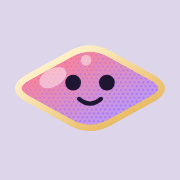
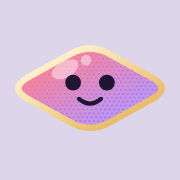
The gloss back in place with only its cut curve flattened, and every university of a country listed (#393)

Changed region(s): [[0.1944, 0.3056, 0.4444, 0.5]]

diff --git a/app/kit/figure-icon.ts b/app/kit/figure-icon.ts
@@ -1,2 +1,2 @@
 // Written by `pnpm make:icon`: the app icon's drawing in the day look, for the first opening (src/launch-intro.ts).
-export const FIGURE_ICON_SVG = "<svg aria-hidden=\"true\" focusable=\"false\" viewBox=\"0 0 64 40\" data-character=\"diamond\" style=\"overflow:visible\"><g data-part=\"figure\" style=\"transform-box:fill-box;transform-origin:50% 100%\"><g><defs><linearGradient id=\"icon-body\" x1=\"0.15\" y1=\"0.15\" x2=\"0.85\" y2=\"0.85\"><stop offset=\"0\" style=\"stop-color:#FF7F8E\"></stop><stop offset=\"1\" style=\"stop-color:#B79BFF\"></stop></linearGradient><linearGradient id=\"icon-edge\" x1=\"0.15\" y1=\"0.15\" x2=\"0.85\" y2=\"0.85\"><stop offset=\"0\" style=\"stop-color:#FFF4D0\"></stop><stop offset=\"1\" style=\"stop-color:#E8B860\"></stop></linearGradient></defs><g data-part=\"body\"><path d=\"M25 7.86 Q32 4 39 7.86 L54 16.14 Q61 20 54 23.86 L39 32.14 Q32 36 25 32.14 L10 23.86 Q3 20 10 16.14 Z\" style=\"fill:url(#icon-body);stroke:url(#icon-edge);stroke-width:2.2;stroke-linejoin:round\"></path><g data-part=\"halftone\"><path d=\"\" style=\"fill:none;stroke:#835EFF;stroke-opacity:0.45;stroke-width:0.22;stroke-linecap:round\"></path><path d=\"\" style=\"fill:none;stroke:#835EFF;stroke-opacity:0.45;stroke-width:0.34;stroke-linecap:round\"></path><path d=\"M27 6.77h0M28.6 6.77h0M30.2 6.77h0M31.8 6.77h0M33.4 6.77h0M35 6.77h0M36.6 6.77h0M24.6 8.16h0M26.2 8.16h0M27.8 8.16h0M29.4 8.16h0M31 8.16h0M32.6 8.16h0M34.2 8.16h0M35.8 8.16h0M37.4 8.16h0M22.2 9.54h0M23.8 9.54h0M25.4 9.54h0M27 9.54h0M28.6 9.54h0M30.2 9.54h0M31.8 9.54h0M33.4 9.54h0M35 9.54h0M19.8 10.93h0M21.4 10.93h0M23 10.93h0M24.6 10.93h0M26.2 10.93h0M27.8 10.93h0M29.4 10.93h0M31 10.93h0M32.6 10.93h0M17.4 12.31h0M19 12.31h0M20.6 12.31h0M22.2 12.31h0M23.8 12.31h0M25.4 12.31h0M27 12.31h0M28.6 12.31h0M30.2 12.31h0M15 13.7h0M16.6 13.7h0M18.2 13.7h0M19.8 13.7h0M21.4 13.7h0M23 13.7h0M24.6 13.7h0M26.2 13.7h0M27.8 13.7h0M12.6 15.08h0M14.2 15.08h0M15.8 15.08h0M17.4 15.08h0M19 15.08h0M20.6 15.08h0M22.2 15.08h0M23.8 15.08h0M25.4 15.08h0M10.2 16.47h0M11.8 16.47h0M13.4 16.47h0M15 16.47h0M16.6 16.47h0M18.2 16.47h0M19.8 16.47h0M21.4 16.47h0M23 16.47h0M7.8 17.86h0M9.4 17.86h0M11 17.86h0M12.6 17.86h0M14.2 17.86h0M15.8 17.86h0M17.4 17.86h0M19 17.86h0M20.6 17.86h0M7 19.24h0M8.6 19.24h0M10.2 19.24h0M11.8 19.24h0M13.4 19.24h0M15 19.24h0M16.6 19.24h0M18.2 19.24h0M7.8 20.63h0M9.4 20.63h0M11 20.63h0M12.6 20.63h0M14.2 20.63h0M15.8 20.63h0M7 22.01h0M8.6 22.01h0M10.2 22.01h0M11.8 22.01h0M13.4 22.01h0M9.4 23.4h0M11 23.4h0\" style=\"fill:none;stroke:#835EFF;stroke-opacity:0.45;stroke-width:0.46;stroke-linecap:round\"></path><path d=\"M39 8.16h0M36.6 9.54h0M38.2 9.54h0M39.8 9.54h0M41.4 9.54h0M34.2 10.93h0M35.8 10.93h0M37.4 10.93h0M39 10.93h0M40.6 10.93h0M42.2 10.93h0M43.8 10.93h0M31.8 12.31h0M33.4 12.31h0M35 12.31h0M36.6 12.31h0M38.2 12.31h0M39.8 12.31h0M41.4 12.31h0M43 12.31h0M44.6 12.31h0M29.4 13.7h0M31 13.7h0M32.6 13.7h0M34.2 13.7h0M35.8 13.7h0M37.4 13.7h0M39 13.7h0M40.6 13.7h0M42.2 13.7h0M27 15.08h0M28.6 15.08h0M30.2 15.08h0M31.8 15.08h0M33.4 15.08h0M35 15.08h0M36.6 15.08h0M38.2 15.08h0M39.8 15.08h0M24.6 16.47h0M26.2 16.47h0M27.8 16.47h0M29.4 16.47h0M31 16.47h0M32.6 16.47h0M34.2 16.47h0M35.8 16.47h0M37.4 16.47h0M22.2 17.86h0M23.8 17.86h0M25.4 17.86h0M27 17.86h0M28.6 17.86h0M30.2 17.86h0M31.8 17.86h0M33.4 17.86h0M35 17.86h0M19.8 19.24h0M21.4 19.24h0M23 19.24h0M24.6 19.24h0M26.2 19.24h0M27.8 19.24h0M29.4 19.24h0M31 19.24h0M32.6 19.24h0M17.4 20.63h0M19 20.63h0M20.6 20.63h0M22.2 20.63h0M23.8 20.63h0M25.4 20.63h0M27 20.63h0M28.6 20.63h0M30.2 20.63h0M15 22.01h0M16.6 22.01h0M18.2 22.01h0M19.8 22.01h0M21.4 22.01h0M23 22.01h0M24.6 22.01h0M26.2 22.01h0M27.8 22.01h0M12.6 23.4h0M14.2 23.4h0M15.8 23.4h0M17.4 23.4h0M19 23.4h0M20.6 23.4h0M22.2 23.4h0M23.8 23.4h0M25.4 23.4h0M11.8 24.78h0M13.4 24.78h0M15 24.78h0M16.6 24.78h0M18.2 24.78h0M19.8 24.78h0M21.4 24.78h0M23 24.78h0M14.2 26.17h0M15.8 26.17h0M17.4 26.17h0M19 26.17h0M20.6 26.17h0M18.2 27.56h0\" style=\"fill:none;stroke:#835EFF;stroke-opacity:0.45;stroke-width:0.58;stroke-linecap:round\"></path><path d=\"M46.2 12.31h0M43.8 13.7h0M45.4 13.7h0M47 13.7h0M48.6 13.7h0M41.4 15.08h0M43 15.08h0M44.6 15.08h0M46.2 15.08h0M47.8 15.08h0M49.4 15.08h0M51 15.08h0M39 16.47h0M40.6 16.47h0M42.2 16.47h0M43.8 16.47h0M45.4 16.47h0M47 16.47h0M48.6 16.47h0M50.2 16.47h0M51.8 16.47h0M36.6 17.86h0M38.2 17.86h0M39.8 17.86h0M41.4 17.86h0M43 17.86h0M44.6 17.86h0M46.2 17.86h0M47.8 17.86h0M49.4 17.86h0M34.2 19.24h0M35.8 19.24h0M37.4 19.24h0M39 19.24h0M40.6 19.24h0M42.2 19.24h0M43.8 19.24h0M45.4 19.24h0M47 19.24h0M31.8 20.63h0M33.4 20.63h0M35 20.63h0M36.6 20.63h0M38.2 20.63h0M39.8 20.63h0M41.4 20.63h0M43 20.63h0M44.6 20.63h0M29.4 22.01h0M31 22.01h0M32.6 22.01h0M34.2 22.01h0M35.8 22.01h0M37.4 22.01h0M39 22.01h0M40.6 22.01h0M42.2 22.01h0M27 23.4h0M28.6 23.4h0M30.2 23.4h0M31.8 23.4h0M33.4 23.4h0M35 23.4h0M36.6 23.4h0M38.2 23.4h0M39.8 23.4h0M24.6 24.78h0M26.2 24.78h0M27.8 24.78h0M29.4 24.78h0M31 24.78h0M32.6 24.78h0M34.2 24.78h0M35.8 24.78h0M37.4 24.78h0M22.2 26.17h0M23.8 26.17h0M25.4 26.17h0M27 26.17h0M28.6 26.17h0M30.2 26.17h0M31.8 26.17h0M33.4 26.17h0M35 26.17h0M19.8 27.56h0M21.4 27.56h0M23 27.56h0M24.6 27.56h0M26.2 27.56h0M27.8 27.56h0M29.4 27.56h0M31 27.56h0M32.6 27.56h0M20.6 28.94h0M22.2 28.94h0M23.8 28.94h0M25.4 28.94h0M27 28.94h0M28.6 28.94h0M30.2 28.94h0M23 30.33h0M24.6 30.33h0M26.2 30.33h0\" style=\"fill:none;stroke:#835EFF;stroke-opacity:0.45;stroke-width:0.7;stroke-linecap:round\"></path><path d=\"M53.4 16.47h0M51 17.86h0M52.6 17.86h0M54.2 17.86h0M55.8 17.86h0M48.6 19.24h0M50.2 19.24h0M51.8 19.24h0M53.4 19.24h0M55 19.24h0M56.6 19.24h0M46.2 20.63h0M47.8 20.63h0M49.4 20.63h0M51 20.63h0M52.6 20.63h0M54.2 20.63h0M55.8 20.63h0M57.4 20.63h0M43.8 22.01h0M45.4 22.01h0M47 22.01h0M48.6 22.01h0M50.2 22.01h0M51.8 22.01h0M53.4 22.01h0M55 22.01h0M56.6 22.01h0M41.4 23.4h0M43 23.4h0M44.6 23.4h0M46.2 23.4h0M47.8 23.4h0M49.4 23.4h0M51 23.4h0M52.6 23.4h0M54.2 23.4h0M39 24.78h0M40.6 24.78h0M42.2 24.78h0M43.8 24.78h0M45.4 24.78h0M47 24.78h0M48.6 24.78h0M50.2 24.78h0M51.8 24.78h0M36.6 26.17h0M38.2 26.17h0M39.8 26.17h0M41.4 26.17h0M43 26.17h0M44.6 26.17h0M46.2 26.17h0M47.8 26.17h0M49.4 26.17h0M34.2 27.56h0M35.8 27.56h0M37.4 27.56h0M39 27.56h0M40.6 27.56h0M42.2 27.56h0M43.8 27.56h0M45.4 27.56h0M47 27.56h0M31.8 28.94h0M33.4 28.94h0M35 28.94h0M36.6 28.94h0M38.2 28.94h0M39.8 28.94h0M41.4 28.94h0M43 28.94h0M44.6 28.94h0M27.8 30.33h0M29.4 30.33h0M31 30.33h0M32.6 30.33h0M34.2 30.33h0M35.8 30.33h0M37.4 30.33h0M39 30.33h0M40.6 30.33h0M42.2 30.33h0M25.4 31.71h0M27 31.71h0M28.6 31.71h0M30.2 31.71h0M31.8 31.71h0M33.4 31.71h0M35 31.71h0M36.6 31.71h0M38.2 31.71h0M27.8 33.1h0M29.4 33.1h0M31 33.1h0M32.6 33.1h0M34.2 33.1h0M35.8 33.1h0\" style=\"fill:none;stroke:#835EFF;stroke-opacity:0.45;stroke-width:0.82;stroke-linecap:round\"></path><path d=\"\" style=\"fill:none;stroke:#835EFF;stroke-opacity:0.45;stroke-width:0.94;stroke-linecap:round\"></path><path d=\"\" style=\"fill:none;stroke:#835EFF;stroke-opacity:0.45;stroke-width:1.06;stroke-linecap:round\"></path></g><g data-part=\"gloss\"><ellipse cx=\"18.79\" cy=\"16.2\" rx=\"5.2\" ry=\"3.2\" transform=\"rotate(-28.89 18.79 16.2)\" style=\"fill:rgba(255, 255, 255, 0.45)\"></ellipse><circle cx=\"30.59\" cy=\"10.03\" r=\"1.9\" style=\"fill:rgba(255, 255, 255, 0.45)\"></circle></g><path data-part=\"edge\" d=\"M25 7.86 Q32 4 39 7.86 L54 16.14 Q61 20 54 23.86 L39 32.14 Q32 36 25 32.14 L10 23.86 Q3 20 10 16.14 Z\" style=\"fill:none;stroke:url(#icon-edge);stroke-width:2.2;stroke-linejoin:round\"></path></g><g data-part=\"face\"><g data-part=\"eyes\" style=\"transform:translate(0px, 0px)\"><g data-part=\"gaze\"><g data-part=\"lid\" style=\"transform-box:fill-box;transform-origin:50% 50%\"><circle data-part=\"eye\" cx=\"26\" cy=\"18\" r=\"2.8\" style=\"fill:#1E1633;transform-box:fill-box;transform-origin:50% 50%\"></circle></g><g data-part=\"lid\" style=\"transform-box:fill-box;transform-origin:50% 50%\"><circle data-part=\"eye\" cx=\"38\" cy=\"18\" r=\"2.8\" style=\"fill:#1E1633;transform-box:fill-box;transform-origin:50% 50%\"></circle></g></g></g><g data-part=\"mouth\" style=\"transform-box:fill-box;transform-origin:50% 50%\"><path d=\"M28.1 23.8 Q32 27.1 35.9 23.8\" style=\"fill:none;stroke:#1E1633;stroke-width:1.5;stroke-linecap:round\"></path></g></g></g></g></svg>";
+export const FIGURE_ICON_SVG = "<svg aria-hidden=\"true\" focusable=\"false\" viewBox=\"0 0 64 40\" data-character=\"diamond\" style=\"overflow:visible\"><g data-part=\"figure\" style=\"transform-box:fill-box;transform-origin:50% 100%\"><g><defs><linearGradient id=\"icon-body\" x1=\"0.15\" y1=\"0.15\" x2=\"0.85\" y2=\"0.85\"><stop offset=\"0\" style=\"stop-color:#FF7F8E\"></stop><stop offset=\"1\" style=\"stop-color:#B79BFF\"></stop></linearGradient><linearGradient id=\"icon-edge\" x1=\"0.15\" y1=\"0.15\" x2=\"0.85\" y2=\"0.85\"><stop offset=\"0\" style=\"stop-color:#FFF4D0\"></stop><stop offset=\"1\" style=\"stop-color:#E8B860\"></stop></linearGradient></defs><g data-part=\"body\"><path d=\"M25 7.86 Q32 4 39 7.86 L54 16.14 Q61 20 54 23.86 L39 32.14 Q32 36 25 32.14 L10 23.86 Q3 20 10 16.14 Z\" style=\"fill:url(#icon-body);stroke:url(#icon-edge);stroke-width:2.2;stroke-linejoin:round\"></path><g data-part=\"halftone\"><path d=\"\" style=\"fill:none;stroke:#835EFF;stroke-opacity:0.45;stroke-width:0.22;stroke-linecap:round\"></path><path d=\"\" style=\"fill:none;stroke:#835EFF;stroke-opacity:0.45;stroke-width:0.34;stroke-linecap:round\"></path><path d=\"M27 6.77h0M28.6 6.77h0M30.2 6.77h0M31.8 6.77h0M33.4 6.77h0M35 6.77h0M36.6 6.77h0M24.6 8.16h0M26.2 8.16h0M27.8 8.16h0M29.4 8.16h0M31 8.16h0M32.6 8.16h0M34.2 8.16h0M35.8 8.16h0M37.4 8.16h0M22.2 9.54h0M23.8 9.54h0M25.4 9.54h0M27 9.54h0M28.6 9.54h0M30.2 9.54h0M31.8 9.54h0M33.4 9.54h0M35 9.54h0M19.8 10.93h0M21.4 10.93h0M23 10.93h0M24.6 10.93h0M26.2 10.93h0M27.8 10.93h0M29.4 10.93h0M31 10.93h0M32.6 10.93h0M17.4 12.31h0M19 12.31h0M20.6 12.31h0M22.2 12.31h0M23.8 12.31h0M25.4 12.31h0M27 12.31h0M28.6 12.31h0M30.2 12.31h0M15 13.7h0M16.6 13.7h0M18.2 13.7h0M19.8 13.7h0M21.4 13.7h0M23 13.7h0M24.6 13.7h0M26.2 13.7h0M27.8 13.7h0M12.6 15.08h0M14.2 15.08h0M15.8 15.08h0M17.4 15.08h0M19 15.08h0M20.6 15.08h0M22.2 15.08h0M23.8 15.08h0M25.4 15.08h0M10.2 16.47h0M11.8 16.47h0M13.4 16.47h0M15 16.47h0M16.6 16.47h0M18.2 16.47h0M19.8 16.47h0M21.4 16.47h0M23 16.47h0M7.8 17.86h0M9.4 17.86h0M11 17.86h0M12.6 17.86h0M14.2 17.86h0M15.8 17.86h0M17.4 17.86h0M19 17.86h0M20.6 17.86h0M7 19.24h0M8.6 19.24h0M10.2 19.24h0M11.8 19.24h0M13.4 19.24h0M15 19.24h0M16.6 19.24h0M18.2 19.24h0M7.8 20.63h0M9.4 20.63h0M11 20.63h0M12.6 20.63h0M14.2 20.63h0M15.8 20.63h0M7 22.01h0M8.6 22.01h0M10.2 22.01h0M11.8 22.01h0M13.4 22.01h0M9.4 23.4h0M11 23.4h0\" style=\"fill:none;stroke:#835EFF;stroke-opacity:0.45;stroke-width:0.46;stroke-linecap:round\"></path><path d=\"M39 8.16h0M36.6 9.54h0M38.2 9.54h0M39.8 9.54h0M41.4 9.54h0M34.2 10.93h0M35.8 10.93h0M37.4 10.93h0M39 10.93h0M40.6 10.93h0M42.2 10.93h0M43.8 10.93h0M31.8 12.31h0M33.4 12.31h0M35 12.31h0M36.6 12.31h0M38.2 12.31h0M39.8 12.31h0M41.4 12.31h0M43 12.31h0M44.6 12.31h0M29.4 13.7h0M31 13.7h0M32.6 13.7h0M34.2 13.7h0M35.8 13.7h0M37.4 13.7h0M39 13.7h0M40.6 13.7h0M42.2 13.7h0M27 15.08h0M28.6 15.08h0M30.2 15.08h0M31.8 15.08h0M33.4 15.08h0M35 15.08h0M36.6 15.08h0M38.2 15.08h0M39.8 15.08h0M24.6 16.47h0M26.2 16.47h0M27.8 16.47h0M29.4 16.47h0M31 16.47h0M32.6 16.47h0M34.2 16.47h0M35.8 16.47h0M37.4 16.47h0M22.2 17.86h0M23.8 17.86h0M25.4 17.86h0M27 17.86h0M28.6 17.86h0M30.2 17.86h0M31.8 17.86h0M33.4 17.86h0M35 17.86h0M19.8 19.24h0M21.4 19.24h0M23 19.24h0M24.6 19.24h0M26.2 19.24h0M27.8 19.24h0M29.4 19.24h0M31 19.24h0M32.6 19.24h0M17.4 20.63h0M19 20.63h0M20.6 20.63h0M22.2 20.63h0M23.8 20.63h0M25.4 20.63h0M27 20.63h0M28.6 20.63h0M30.2 20.63h0M15 22.01h0M16.6 22.01h0M18.2 22.01h0M19.8 22.01h0M21.4 22.01h0M23 22.01h0M24.6 22.01h0M26.2 22.01h0M27.8 22.01h0M12.6 23.4h0M14.2 23.4h0M15.8 23.4h0M17.4 23.4h0M19 23.4h0M20.6 23.4h0M22.2 23.4h0M23.8 23.4h0M25.4 23.4h0M11.8 24.78h0M13.4 24.78h0M15 24.78h0M16.6 24.78h0M18.2 24.78h0M19.8 24.78h0M21.4 24.78h0M23 24.78h0M14.2 26.17h0M15.8 26.17h0M17.4 26.17h0M19 26.17h0M20.6 26.17h0M18.2 27.56h0\" style=\"fill:none;stroke:#835EFF;stroke-opacity:0.45;stroke-width:0.58;stroke-linecap:round\"></path><path d=\"M46.2 12.31h0M43.8 13.7h0M45.4 13.7h0M47 13.7h0M48.6 13.7h0M41.4 15.08h0M43 15.08h0M44.6 15.08h0M46.2 15.08h0M47.8 15.08h0M49.4 15.08h0M51 15.08h0M39 16.47h0M40.6 16.47h0M42.2 16.47h0M43.8 16.47h0M45.4 16.47h0M47 16.47h0M48.6 16.47h0M50.2 16.47h0M51.8 16.47h0M36.6 17.86h0M38.2 17.86h0M39.8 17.86h0M41.4 17.86h0M43 17.86h0M44.6 17.86h0M46.2 17.86h0M47.8 17.86h0M49.4 17.86h0M34.2 19.24h0M35.8 19.24h0M37.4 19.24h0M39 19.24h0M40.6 19.24h0M42.2 19.24h0M43.8 19.24h0M45.4 19.24h0M47 19.24h0M31.8 20.63h0M33.4 20.63h0M35 20.63h0M36.6 20.63h0M38.2 20.63h0M39.8 20.63h0M41.4 20.63h0M43 20.63h0M44.6 20.63h0M29.4 22.01h0M31 22.01h0M32.6 22.01h0M34.2 22.01h0M35.8 22.01h0M37.4 22.01h0M39 22.01h0M40.6 22.01h0M42.2 22.01h0M27 23.4h0M28.6 23.4h0M30.2 23.4h0M31.8 23.4h0M33.4 23.4h0M35 23.4h0M36.6 23.4h0M38.2 23.4h0M39.8 23.4h0M24.6 24.78h0M26.2 24.78h0M27.8 24.78h0M29.4 24.78h0M31 24.78h0M32.6 24.78h0M34.2 24.78h0M35.8 24.78h0M37.4 24.78h0M22.2 26.17h0M23.8 26.17h0M25.4 26.17h0M27 26.17h0M28.6 26.17h0M30.2 26.17h0M31.8 26.17h0M33.4 26.17h0M35 26.17h0M19.8 27.56h0M21.4 27.56h0M23 27.56h0M24.6 27.56h0M26.2 27.56h0M27.8 27.56h0M29.4 27.56h0M31 27.56h0M32.6 27.56h0M20.6 28.94h0M22.2 28.94h0M23.8 28.94h0M25.4 28.94h0M27 28.94h0M28.6 28.94h0M30.2 28.94h0M23 30.33h0M24.6 30.33h0M26.2 30.33h0\" style=\"fill:none;stroke:#835EFF;stroke-opacity:0.45;stroke-width:0.7;stroke-linecap:round\"></path><path d=\"M53.4 16.47h0M51 17.86h0M52.6 17.86h0M54.2 17.86h0M55.8 17.86h0M48.6 19.24h0M50.2 19.24h0M51.8 19.24h0M53.4 19.24h0M55 19.24h0M56.6 19.24h0M46.2 20.63h0M47.8 20.63h0M49.4 20.63h0M51 20.63h0M52.6 20.63h0M54.2 20.63h0M55.8 20.63h0M57.4 20.63h0M43.8 22.01h0M45.4 22.01h0M47 22.01h0M48.6 22.01h0M50.2 22.01h0M51.8 22.01h0M53.4 22.01h0M55 22.01h0M56.6 22.01h0M41.4 23.4h0M43 23.4h0M44.6 23.4h0M46.2 23.4h0M47.8 23.4h0M49.4 23.4h0M51 23.4h0M52.6 23.4h0M54.2 23.4h0M39 24.78h0M40.6 24.78h0M42.2 24.78h0M43.8 24.78h0M45.4 24.78h0M47 24.78h0M48.6 24.78h0M50.2 24.78h0M51.8 24.78h0M36.6 26.17h0M38.2 26.17h0M39.8 26.17h0M41.4 26.17h0M43 26.17h0M44.6 26.17h0M46.2 26.17h0M47.8 26.17h0M49.4 26.17h0M34.2 27.56h0M35.8 27.56h0M37.4 27.56h0M39 27.56h0M40.6 27.56h0M42.2 27.56h0M43.8 27.56h0M45.4 27.56h0M47 27.56h0M31.8 28.94h0M33.4 28.94h0M35 28.94h0M36.6 28.94h0M38.2 28.94h0M39.8 28.94h0M41.4 28.94h0M43 28.94h0M44.6 28.94h0M27.8 30.33h0M29.4 30.33h0M31 30.33h0M32.6 30.33h0M34.2 30.33h0M35.8 30.33h0M37.4 30.33h0M39 30.33h0M40.6 30.33h0M42.2 30.33h0M25.4 31.71h0M27 31.71h0M28.6 31.71h0M30.2 31.71h0M31.8 31.71h0M33.4 31.71h0M35 31.71h0M36.6 31.71h0M38.2 31.71h0M27.8 33.1h0M29.4 33.1h0M31 33.1h0M32.6 33.1h0M34.2 33.1h0M35.8 33.1h0\" style=\"fill:none;stroke:#835EFF;stroke-opacity:0.45;stroke-width:0.82;stroke-linecap:round\"></path><path d=\"\" style=\"fill:none;stroke:#835EFF;stroke-opacity:0.45;stroke-width:0.94;stroke-linecap:round\"></path><path d=\"\" style=\"fill:none;stroke:#835EFF;stroke-opacity:0.45;stroke-width:1.06;stroke-linecap:round\"></path></g><g data-part=\"gloss\"><path d=\"M17.82 13 A5.2 2.44 0 0 1 28.22 13 A5.2 3.2 0 0 1 17.82 13 Z\" transform=\"rotate(-28.89 23.02 13)\" style=\"fill:rgba(255, 255, 255, 0.45)\"></path><circle cx=\"30.59\" cy=\"10.03\" r=\"1.9\" style=\"fill:rgba(255, 255, 255, 0.45)\"></circle></g><path data-part=\"edge\" d=\"M25 7.86 Q32 4 39 7.86 L54 16.14 Q61 20 54 23.86 L39 32.14 Q32 36 25 32.14 L10 23.86 Q3 20 10 16.14 Z\" style=\"fill:none;stroke:url(#icon-edge);stroke-width:2.2;stroke-linejoin:round\"></path></g><g data-part=\"face\"><g data-part=\"eyes\" style=\"transform:translate(0px, 0px)\"><g data-part=\"gaze\"><g data-part=\"lid\" style=\"transform-box:fill-box;transform-origin:50% 50%\"><circle data-part=\"eye\" cx=\"26\" cy=\"18\" r=\"2.8\" style=\"fill:#1E1633;transform-box:fill-box;transform-origin:50% 50%\"></circle></g><g data-part=\"lid\" style=\"transform-box:fill-box;transform-origin:50% 50%\"><circle data-part=\"eye\" cx=\"38\" cy=\"18\" r=\"2.8\" style=\"fill:#1E1633;transform-box:fill-box;transform-origin:50% 50%\"></circle></g></g></g><g data-part=\"mouth\" style=\"transform-box:fill-box;transform-origin:50% 50%\"><path d=\"M28.1 23.8 Q32 27.1 35.9 23.8\" style=\"fill:none;stroke:#1E1633;stroke-width:1.5;stroke-linecap:round\"></path></g></g></g></g></svg>";

diff --git a/app/kit/Figure.tsx b/app/kit/Figure.tsx
@@ -97,14 +97,12 @@ function edges() {
 const EDGE_HALF = 1.1;
 /** How far along each side the corners' round reaches (app/kit/Character.tsx draws the diamond with radius 8). */
 const CORNER_ROUND = 8;
-/** The eyes' centres and their radius, open: where the gloss must leave room. */
+/** The eyes' centres and their radius, open. */
 const EYES_AT: readonly (readonly [number, number])[] = [
   [26, 18],
   [38, 18],
 ];
 const EYE_R = 2.8;
-/** The room the gloss leaves an eye at rest. */
-const EYE_CLEAR = 0.4;
 export const GLOSS_RX = 5.2;
 export const GLOSS_RY = 3.2;
 export const DOT_R = 1.9;
@@ -142,64 +140,31 @@ export function fromOutline(point: Readonly<{ x: number; y: number }>): number {
   return nearest;
 }
 
-/** The least room between the gloss, slanted by `angle`, and either eye. */
-function fromEyes(cx: number, cy: number, angle: number): number {
-  let nearest = Infinity;
-  for (let step = 0; step < 90; step += 1) {
-    const t = (step * Math.PI) / 45;
-    const x = cx + GLOSS_RX * Math.cos(t) * Math.cos(angle) - GLOSS_RY * Math.sin(t) * Math.sin(angle);
-    const y = cy + GLOSS_RX * Math.cos(t) * Math.sin(angle) + GLOSS_RY * Math.sin(t) * Math.cos(angle);
-    for (const [ex, ey] of EYES_AT) nearest = Math.min(nearest, Math.hypot(x - ex, y - ey) - EYE_R);
-  }
-  return nearest;
-}
-
 /**
  * What the light does to the body: the gradient's two points, the gloss's place and slant, and the dot beside it.
  * All of it from one direction, so a pose never has to be lit by hand.
  *
- * Neither reflection is cut by the edge (the founder, 29 Sep 2026: the edge cut the gloss's round side). The gloss lies
- * along the lit side and touches the edge's inner line: its short half-axis and half the edge from that side's line;
- * pressed there, it would meet the left eye, so it slides along the side until it clears it, keeping its shape. The dot stays where the light puts it, and only moves toward the middle when the edge, or a corner's round, would
- * cover part of it.
+ * The gloss lies along the lit side, where it always did. Where it would pass under the edge, its half on that side is
+ * flatter (the founder, 29 Sep 2026: its curve should meet the coloured edge, not be cut by it): `edgeRy` is that
+ * half's height, which brings its top to the edge's inner line and no further. The other half, its place, its length,
+ * its slant and the dot are what they were.
  */
 export function lit(light = LIGHT, lean = 0) {
   const l = turned(unit(light), lean);
   const gradient = { x1: 0.5 + 0.5 * l.x, y1: 0.5 + 0.5 * l.y, x2: 0.5 - 0.5 * l.x, y2: 0.5 - 0.5 * l.y };
+  const gloss = { cx: CENTRE.x + l.x * 12.7, cy: CENTRE.y + l.y * 9.9 };
+  const dot = { cx: CENTRE.x + l.x * 2, cy: CENTRE.y + l.y * 14.1 };
   const all = edges().map((edge) => ({ ...edge, facing: edge.normal.x * l.x + edge.normal.y * l.y }));
   const litEdge = all.reduce((best, edge) => (edge.facing > best.facing ? edge : best), all[0]);
-  const lightOn = { x: CENTRE.x + l.x * 12.7, y: CENTRE.y + l.y * 9.9 };
-  const inward = { x: -litEdge.normal.x, y: -litEdge.normal.y };
-  const fromSide = (lightOn.x - litEdge.from[0]) * inward.x + (lightOn.y - litEdge.from[1]) * inward.y;
-  const shift = GLOSS_RY + EDGE_HALF - fromSide;
-  const tangent = { x: lightOn.x + inward.x * shift, y: lightOn.y + inward.y * shift };
-  // Pressed against the edge, it would now meet an eye: it slides along the side, the least it takes, until it clears
-  // both, and never into a corner's round, where the side is no longer straight.
-  const along = unit({ x: litEdge.to[0] - litEdge.from[0], y: litEdge.to[1] - litEdge.from[1] });
-  const at = (tangent.x - litEdge.from[0]) * along.x + (tangent.y - litEdge.from[1]) * along.y;
-  const angle = (litEdge.angle * Math.PI) / 180;
-  let gloss = { cx: tangent.x, cy: tangent.y };
-  search: for (let slide = 0; slide <= litEdge.length; slide += 0.25) {
-    for (const way of [-1, 1]) {
-      const middle = at + way * slide;
-      if (middle - GLOSS_RX < CORNER_ROUND || middle + GLOSS_RX > litEdge.length - CORNER_ROUND) continue;
-      const cx = tangent.x + along.x * way * slide;
-      const cy = tangent.y + along.y * way * slide;
-      if (fromEyes(cx, cy, angle) >= EYE_CLEAR) {
-        gloss = { cx, cy };
-        break search;
-      }
-    }
-  }
-  const dot = { cx: CENTRE.x + l.x * 2, cy: CENTRE.y + l.y * 14.1 };
-  const toMiddle = unit({ x: CENTRE.x - dot.cx, y: CENTRE.y - dot.cy });
-  for (let step = 0; step < 3; step += 1) {
-    const short = DOT_R + EDGE_HALF - fromOutline({ x: dot.cx, y: dot.cy });
-    if (short <= 0) break;
-    dot.cx += toMiddle.x * short;
-    dot.cy += toMiddle.y * short;
-  }
-  return { light: l, gradient, gloss: { ...gloss, angle: round(litEdge.angle) }, dot };
+  const fromSide = (gloss.cx - litEdge.from[0]) * -litEdge.normal.x + (gloss.cy - litEdge.from[1]) * -litEdge.normal.y;
+  const edgeRy = round(Math.max(0.5, Math.min(GLOSS_RY, fromSide - EDGE_HALF)));
+  return { light: l, gradient, gloss: { ...gloss, angle: round(litEdge.angle), edgeRy }, dot };
+}
+
+/** The gloss's outline: its half toward the lit side `edgeRy` high, the other `GLOSS_RY`, joined where both meet the long axis. */
+export function glossPath(cx: number, cy: number, edgeRy: number): string {
+  const [x, y] = [round(cx), round(cy)];
+  return `M${round(x - GLOSS_RX)} ${y} A${GLOSS_RX} ${edgeRy} 0 0 1 ${round(x + GLOSS_RX)} ${y} A${GLOSS_RX} ${GLOSS_RY} 0 0 1 ${round(x - GLOSS_RX)} ${y} Z`;
 }
 
 /**
@@ -569,7 +534,7 @@ export function FigureGroup({ eyes = "open", mouth = "smile", arms = "rest", leg
         {/* The gloss: where the surface faces halfway between the light and the eye, slanted along the lit edge, and one
             dot beside it. A third, smaller spot inside the gloss read as a second, lighter circle and was taken off (D243). */}
         <g data-part="gloss">
-          <ellipse cx={round(shine.gloss.cx)} cy={round(shine.gloss.cy)} rx={GLOSS_RX} ry={GLOSS_RY} transform={`rotate(${shine.gloss.angle} ${round(shine.gloss.cx)} ${round(shine.gloss.cy)})`} style={{ fill: GLOSS }} />
+          <path d={glossPath(shine.gloss.cx, shine.gloss.cy, shine.gloss.edgeRy)} transform={`rotate(${shine.gloss.angle} ${round(shine.gloss.cx)} ${round(shine.gloss.cy)})`} style={{ fill: GLOSS }} />
           <circle cx={round(shine.dot.cx)} cy={round(shine.dot.cy)} r={DOT_R} style={{ fill: GLOSS }} />
         </g>
         {/* The edge again over the dots and the gloss, so both stop at its inner side (the founder, 29 Sep 2026: the gloss

diff --git a/test/figure.test.ts b/test/figure.test.ts
@@ -3,7 +3,7 @@ import { readFileSync } from "node:fs";
 import test from "node:test";
 import { createElement } from "react";
 import { renderToStaticMarkup } from "react-dom/server";
-import { DOT_R, Figure, fromOutline, GLOSS_RX, GLOSS_RY, LIGHT, Scene, lit } from "../app/kit/Figure";
+import { Figure, fromOutline, GLOSS_RX, GLOSS_RY, glossPath, LIGHT, Scene, lit } from "../app/kit/Figure";
 
 /**
  * The rig of the figure (D236): one light that everything shining obeys, a face and limbs in named sets, props in
@@ -18,7 +18,7 @@ test("one light, and the reflections follow it rather than the body", () => {
   assert.ok(!("sparkle" in shine), "no spot inside the gloss: it read as a second, lighter circle (D243)");
   const face = renderToStaticMarkup(createElement(Figure, { id: "f" }));
   const gloss = face.slice(face.indexOf('data-part="gloss"'), face.indexOf("</g>", face.indexOf('data-part="gloss"')));
-  assert.equal((gloss.match(/<ellipse/g) ?? []).length, 1, "the gloss");
+  assert.equal((gloss.match(/<path d="M[^"]* A5\.2 [\d.]+ 0 0 1 [^"]* A5\.2 3\.2 0 0 1 [^"]*Z"/g) ?? []).length, 1, "the gloss, its two halves");
   assert.equal((gloss.match(/<circle/g) ?? []).length, 1, "and one dot beside it, nothing inside it");
   for (const mouth of ["smile", "grin"] as const) {
     const drawn = renderToStaticMarkup(createElement(Figure, { id: "m", mouth }));
@@ -42,7 +42,7 @@ test("the figure is drawn from named parts, in the character's palette and nothi
   assert.ok(!plain.includes('data-part="rim"'), "no rim (D237)");
   assert.match(plain, /stroke:url\(#t-edge\)/, "the edge is a gradient of its own colour");
   assert.ok(plain.includes("var(--character-hero-edge-light)") && plain.includes("var(--character-hero-edge-deep)"));
-  assert.match(plain, /<ellipse[^>]*transform="rotate\(-28\.?\d* /, "the gloss slants along the lit edge");
+  assert.match(plain, /data-part="gloss"><path d="[^"]*" transform="rotate\(-28\.?\d* /, "the gloss slants along the lit edge");
   const colours = new Set(plain.match(/#[0-9A-Fa-f]{6}\b/g) ?? []);
   assert.deepEqual([...colours], [], "every colour a token of the character's, and white only as rgba for what shines");
   assert.doesNotMatch(plain, /--accent/, "never the sun");
@@ -204,28 +204,29 @@ test("the first opening draws the icon's own drawing, written in and kept equal 
   assert.equal(readFileSync("app/kit/figure-icon.ts", "utf8"), iconModule(), "run pnpm make:icon");
 });
 
-test("the gloss touches the edge's inner line without being cut or touching an eye, and the dot is never cut, whatever the lean", () => {
-  // The founder, 29 Sep 2026: the edge cut the gloss's round side. Half the edge (2.2 wide) lies inside the body, so a
-  // reflection 1.1 from the outline's middle line just meets the edge, and one nearer is cut by it.
+test("the gloss stays where the light puts it, and its half on the lit side meets the edge instead of passing under it", () => {
+  // The founder, 29 Sep 2026: only the curve of the big gloss, where the edge cut it; its place, its length and the dot
+  // stay as they were. Half the edge (2.2 wide) lies inside the body, so a reflection 1.1 from the outline's middle line
+  // just meets the edge, and one nearer is cut by it.
   for (const lean of [0, -8, 8, 15, -15, 45]) {
     const shine = lit(LIGHT, lean);
+    const l = shine.light;
+    assert.deepEqual([shine.gloss.cx, shine.gloss.cy], [32 + l.x * 12.7, 20 + l.y * 9.9], `lean ${lean}: the gloss's place`);
+    assert.deepEqual([shine.dot.cx, shine.dot.cy], [32 + l.x * 2, 20 + l.y * 14.1], `lean ${lean}: the dot's place`);
     const angle = (shine.gloss.angle * Math.PI) / 180;
     let nearest = Infinity;
-    for (let step = 0; step < 720; step += 1) {
+    for (let step = 0; step <= 360; step += 1) {
       const t = (step * Math.PI) / 360;
-      const x = shine.gloss.cx + GLOSS_RX * Math.cos(t) * Math.cos(angle) - GLOSS_RY * Math.sin(t) * Math.sin(angle);
-      const y = shine.gloss.cy + GLOSS_RX * Math.cos(t) * Math.sin(angle) + GLOSS_RY * Math.sin(t) * Math.cos(angle);
-      nearest = Math.min(nearest, fromOutline({ x, y }));
+      // The half on the lit side (up in the gloss's own frame), then the other.
+      for (const [x0, y0] of [[GLOSS_RX * Math.cos(t), -shine.gloss.edgeRy * Math.sin(t)], [GLOSS_RX * Math.cos(t), GLOSS_RY * Math.sin(t)]]) {
+        const x = shine.gloss.cx + x0 * Math.cos(angle) - y0 * Math.sin(angle);
+        const y = shine.gloss.cy + x0 * Math.sin(angle) + y0 * Math.cos(angle);
+        nearest = Math.min(nearest, fromOutline({ x, y }));
+      }
     }
-    assert.ok(nearest >= 1.08 && nearest <= 1.16, `lean ${lean}: the gloss meets the edge (${nearest.toFixed(3)} from its middle line)`);
-    let fromEye = Infinity;
-    for (let step = 0; step < 720; step += 1) {
-      const t = (step * Math.PI) / 360;
-      const x = shine.gloss.cx + GLOSS_RX * Math.cos(t) * Math.cos(angle) - GLOSS_RY * Math.sin(t) * Math.sin(angle);
-      const y = shine.gloss.cy + GLOSS_RX * Math.cos(t) * Math.sin(angle) + GLOSS_RY * Math.sin(t) * Math.cos(angle);
-      for (const [ex, ey] of [[26, 18], [38, 18]]) fromEye = Math.min(fromEye, Math.hypot(x - ex, y - ey) - 2.8);
-    }
-    assert.ok(fromEye >= 0.35, `lean ${lean}: the gloss leaves the eyes room (${fromEye.toFixed(2)})`);
-    assert.ok(fromOutline({ x: shine.dot.cx, y: shine.dot.cy }) - DOT_R >= 1.09, `lean ${lean}: the dot is inside the edge`);
+    assert.ok(nearest >= 1.07, `lean ${lean}: the gloss is not cut by the edge (${nearest.toFixed(3)} from its middle line)`);
+    if (shine.gloss.edgeRy < GLOSS_RY) assert.ok(nearest <= 1.16, `lean ${lean}: where it was flattened, it meets the edge (${nearest.toFixed(3)})`);
   }
+  assert.ok(lit(LIGHT, 0).gloss.edgeRy < GLOSS_RY, "at rest, the half the edge cut is the one flattened");
+  assert.equal(glossPath(10, 10, 2.44), "M4.8 10 A5.2 2.44 0 0 1 15.2 10 A5.2 3.2 0 0 1 4.8 10 Z");
 });

diff --git a/app/kit/offer/UniversityChooser.tsx b/app/kit/offer/UniversityChooser.tsx
@@ -3,7 +3,7 @@ import Link from "next/link";
 import { useEffect, useState } from "react";
 import { listUniversitiesIn, listUniversityCountries } from "@/src/client/certificate-gift";
 import type { GiftDraft } from "@/src/gift-draft";
-import { MILESTONE_FUND as M, UNIVERSITY_CHOICE as W } from "@/src/sentences";
+import { UNIVERSITY_CHOICE as W } from "@/src/sentences";
 import { inGroups, type ListedUniversity } from "@/src/university-choice";
 import { HELP } from "../../components/ui";
 import { ChoiceList } from "../ChoiceList";
@@ -101,7 +101,8 @@ export function UniversityChooser({
 /**
  * The search within one country, and its two groups (the founder, 29 Sep 2026): the universities tested with a student
  * first, then all the others with the one line that says how they are set up. The search runs on both; nothing is
- * written on a line. Twelve of the others at most, the way the sheet's other searches say it.
+ * written on a line. Every university of the country is listed, never only the first twelve (the founder, 29 Sep 2026:
+ * no list does that), and what is typed narrows it.
  */
 function CountrySearch({
   country,
@@ -113,11 +114,11 @@ function CountrySearch({
 }: Readonly<{ country: string; found: readonly ListedUniversity[]; words: string; onWords: (words: string) => void; value: string | null; onChange: (value: string) => void }>) {
   const { tested, others } = inGroups(found, words);
   const count = tested.length + others.length;
-  const shown = others.slice(0, 12);
+  const shown = others;
   return (
     <>
       <Field id="university-search" label={W.searchIn(country)} value={words} onChange={onWords} autoComplete="off" spellCheck={false} />
-      {count === 0 ? <p className={HELP}>{W.nothingThere}</p> : <p className={HELP}>{M.detail.found(count)}</p>}
+      {count === 0 ? <p className={HELP}>{W.nothingThere}</p> : <p className={HELP}>{words.trim() ? W.found(count) : W.inCountry(count, country)}</p>}
       {tested.length > 0 ? (
         <ChoiceList name="university" legend={W.tested} shape="lines" value={value} onChange={onChange} options={tested.map((one) => ({ value: one.pair, label: one.title }))} />
       ) : null}

diff --git a/test/university-choice.test.ts b/test/university-choice.test.ts
@@ -73,7 +73,7 @@ test("the chooser lists names alone, says nothing about checking, and invites th
   assert.match(chooser, /<CountryPicker/, "the country in the same sheet as \"Where you live\" (D313)");
   // Nothing about checking in the chooser: that is said folded on the gift's page, where the proof is shown.
   assert.doesNotMatch(chooser, /<details|<summary|navigator\.share|clipboard/);
-  assert.deepEqual(Object.keys(UNIVERSITY_CHOICE).sort(), ["addYours", "all", "allLine", "country", "none", "notListed", "nothingThere", "reading", "searchIn", "tested", "unreadable"]);
+  assert.deepEqual(Object.keys(UNIVERSITY_CHOICE).sort(), ["addYours", "all", "allLine", "country", "found", "inCountry", "none", "notListed", "nothingThere", "reading", "searchIn", "tested", "unreadable"]);
   // The two groups' words, as the founder wrote them (29 Sep 2026), and nothing on each line.
   assert.equal(UNIVERSITY_CHOICE.tested, "Tested with a student");
   assert.equal(UNIVERSITY_CHOICE.all, "All universities");
@@ -98,4 +98,13 @@ test("the chosen university is its name and its country, and the gift's sentence
   const { universityNamed } = await import("../src/milestone-conditions");
   const title = chosenUniversityTitle({ pair: "du-bd", title: "University of Dhaka", issuer: "Bangladesh", country: "BD" });
   assert.equal(universityNamed("", title), "This gift will be for University of Dhaka, Bangladesh.");
+});
+
+test("a country's list shows every university, and says how many, never only the first twelve", () => {
+  // The founder, 29 Sep 2026: no list shows twelve and hides the rest; what is typed narrows it.
+  const chooser = readFileSync("app/kit/offer/UniversityChooser.tsx", "utf8");
+  assert.match(chooser, /const shown = others;/);
+  assert.doesNotMatch(chooser, /slice\(0, 12\)/);
+  assert.equal(UNIVERSITY_CHOICE.inCountry(210, "France"), "210 universities in France. Type part of the name to find yours.");
+  assert.equal(UNIVERSITY_CHOICE.found(7), "7 found. Choose one below.");
 });

diff --git a/src/sentences.ts b/src/sentences.ts
@@ -1275,6 +1275,9 @@ export const UNIVERSITY_CHOICE = {
   unreadable: "The list could not be read right now. Close this and try again in a moment.",
   none: "Viky cannot read any university yet.",
   nothingThere: "No university of that name in this country yet.",
+  /** Above the whole list of a country (the founder, 29 Sep 2026: never only the first twelve), and above what a search finds. */
+  inCountry: (count: number, country: string) => `${count} ${count === 1 ? "university" : "universities"} in ${country}. Type part of the name to find yours.`,
+  found: (count: number) => `${count} found. Choose one below.`,
   /** The two groups of a country's list (the founder, 29 Sep 2026): the tested first, and one line under the others. */
   tested: "Tested with a student",
   all: "All universities",
